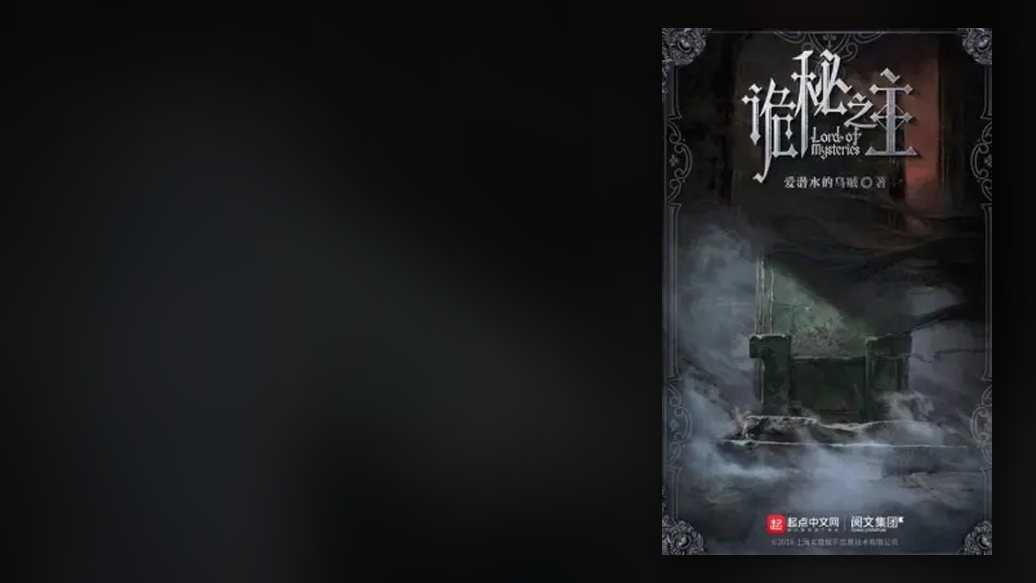
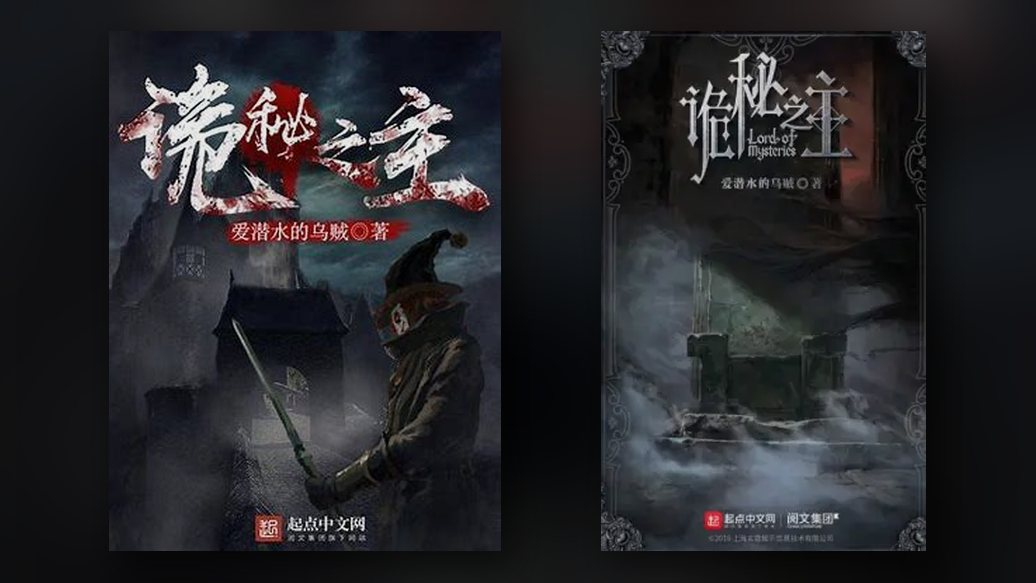
content(blog): LOTM cover v2 — dual-edition symmetric composite
左侧启用经典版书封（279x370，克莱恩持剑），与右侧新版（雾中王座）
同高并列，消除上一版左侧纯渐变留白的空档；双版本并列呼应文章
「同一本书，两种读法」主题。1036x583 72KB，alt/说明同步更新

diff --git a/_posts/2026-10-12-lord-of-the-mysteries-chinese-vs-english-readers.md b/_posts/2026-10-12-lord-of-the-mysteries-chinese-vs-english-readers.md
@@ -6,8 +6,8 @@ description: "一个中国读者在海外社区重新认识《诡秘之主》的
 keywords: "Lord of the Mysteries, 诡秘之主, 网文出海, Reddit, progression fantasy, 序列体系, 扮演法, 中国网文, SEO"
 date: 2026-10-12 22:30:00 +0800
 cover: "/assets/images/blog/lotm-cover.jpg"
-cover_alt: "《诡秘之主》中文版书封，深色雾气中的王座"
-cover_caption: "《诡秘之主》——用「系统语言」写「成长故事」的中国网文"
+cover_alt: "《诡秘之主》两种书封并列：左侧起点经典版（克莱恩持剑回望），右侧阅文新版（雾中王座）"
+cover_caption: "同一本书的两种封面——《诡秘之主》经典版（左）与新版（右），也像两种读法"
 cover_width: 1036
 cover_height: 583
 lang: "zh"
